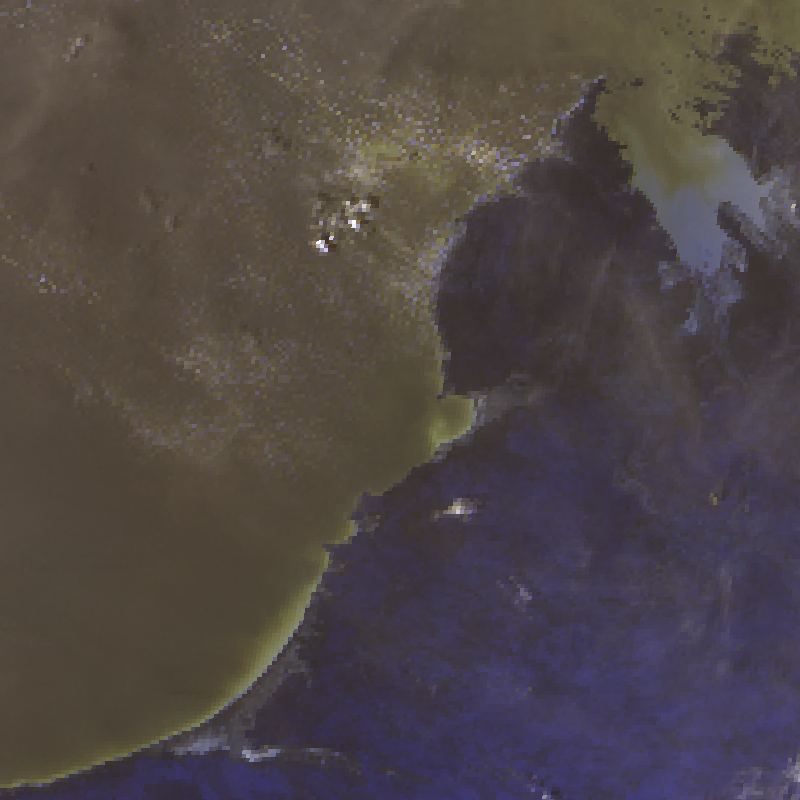
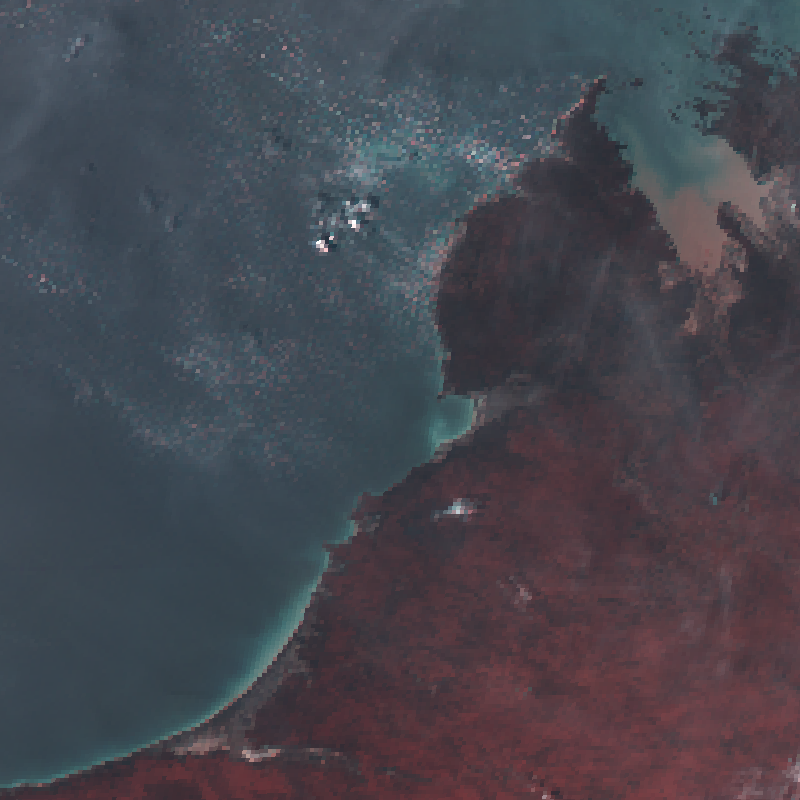
RGB

diff --git a/himawari_transformer.py b/himawari_transformer.py
@@ -32,5 +32,5 @@ for s in src_path:
 	gdal.ReprojectImage(src, dst, None, None, gdal.GRA_NearestNeighbour)
 	bands.append(dst)
 
-b2 = np.dstack((bands[0].ReadAsArray(), bands[1].ReadAsArray(), bands[2].ReadAsArray()))
+b2 = np.dstack((bands[2].ReadAsArray(), bands[1].ReadAsArray(), bands[0].ReadAsArray()))
 plt.imsave("Him8.png", b2 * 2)
